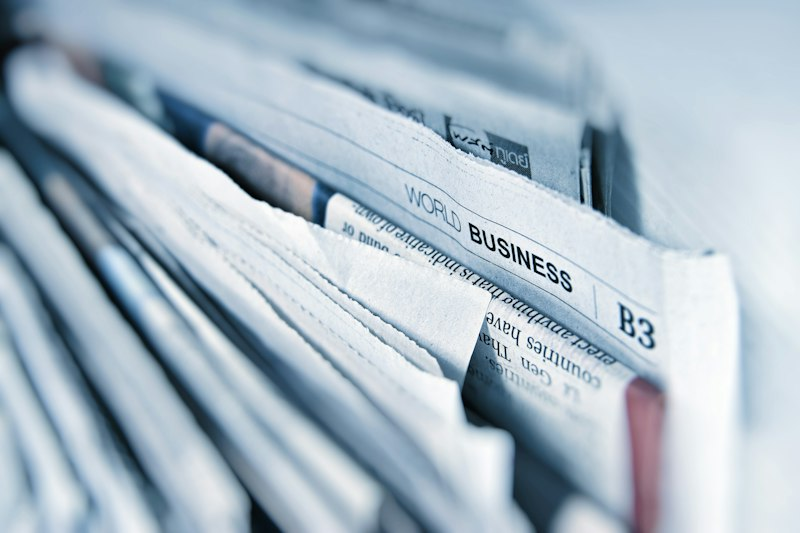
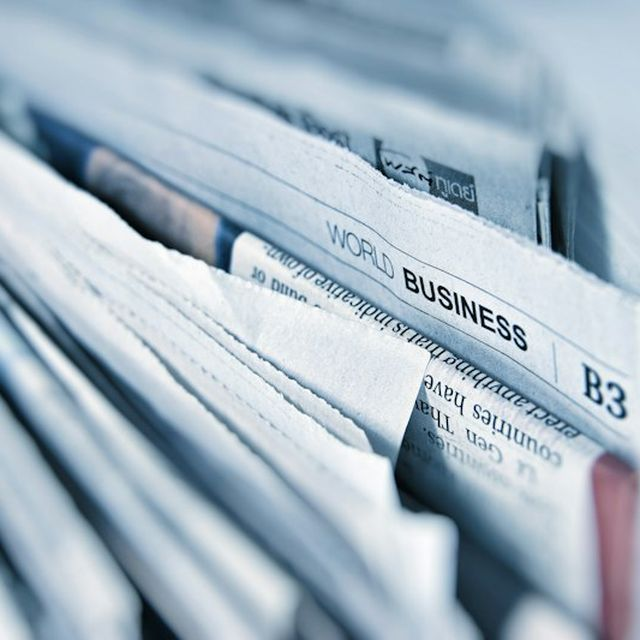
Photo fix

diff --git a/stitch_screens/wrocycle_game.html b/stitch_screens/wrocycle_game.html
@@ -310,6 +310,8 @@
 
 </div>
 
+<p class="text-center text-[10px] text-gray-400 px-4 pb-2">Zdjęcia / Photo credits: Wikimedia Commons (CC0, CC BY, CC BY-SA) — <a href="assets/waste/CREDITS.md" class="underline">details</a></p>
+
 <!-- ===== GAME OVER MODAL ===== -->
 <div id="game-over" class="fixed inset-0 z-[100] bg-black/50 backdrop-blur-md flex items-center justify-center p-4 hidden">
   <div class="bg-white rounded-3xl p-5 sm:p-7 text-center max-w-xs sm:max-w-sm w-full shadow-2xl border border-outline-variant/30">
@@ -398,80 +400,77 @@
       nameEn: "Plastic PET bottle",
       category: "up",
       hint: "Zgnieć i odkręć korek / Crush & uncap",
-      img: "assets/waste/plastic_bottle.jpg",
-      fallbackImg: "https://images.unsplash.com/photo-1591872203534-278fc084969e?q=80&w=800&auto=format&fit=crop"
+      img: "assets/waste/plastic_bottle.jpg"
     },
     {
       namePl: "Puszka po napoju",
       nameEn: "Aluminum soda can",
       category: "up",
       hint: "Opróżnij i zgnieć / Empty & crush",
-      img: "assets/waste/soda_can.jpg",
-      fallbackImg: "https://images.unsplash.com/photo-1581009146145-b5ef050c2e1e?q=80&w=800&auto=format&fit=crop"
+      img: "assets/waste/soda_can.jpg"
     },
     {
       namePl: "Karton po mleku / soku",
       nameEn: "Milk / beverage carton",
       category: "up",
       hint: "Tetrapak: tworzywo + metal + papier",
-      img: "assets/waste/milk_carton.jpg",
-      fallbackImg: "https://images.unsplash.com/photo-1550989460-0adf9ea622e2?q=80&w=800&auto=format&fit=crop"
+      img: "assets/waste/milk_carton.jpg"
     },
     {
       namePl: "Szklana butelka",
       nameEn: "Glass bottle",
       category: "left",
       hint: "Nie tłucz! Zdejmij metalowy kapsel",
-      img: "assets/waste/glass_bottle.jpg",
-      fallbackImg: "https://images.unsplash.com/photo-1603561591411-07134e71a2a9?q=80&w=800&auto=format&fit=crop"
+      img: "assets/waste/glass_bottle.jpg"
     },
     {
       namePl: "Słoik po dżemie",
       nameEn: "Glass food jar",
       category: "left",
       hint: "Opróżnij; wieczko do żółtego kosza",
-      img: "assets/waste/jam_jar.jpg",
-      fallbackImg: "https://images.unsplash.com/photo-1587393855524-087f83d95bc9?q=80&w=800&auto=format&fit=crop"
+      img: "assets/waste/jam_jar.jpg"
     },
     {
       namePl: "Stara gazeta / Czasopismo",
       nameEn: "Newspaper / Magazine",
       category: "down",
       hint: "Suchy i czysty papier / Clean & dry",
-      img: "assets/waste/newspaper.jpg",
-      fallbackImg: "https://images.unsplash.com/photo-1504711434969-e33886168f5c?q=80&w=800&auto=format&fit=crop"
+      img: "assets/waste/newspaper.jpg"
     },
     {
       namePl: "Pudełko tekturowe",
       nameEn: "Cardboard box",
       category: "down",
       hint: "Rozłóż karton na płasko / Flatten box",
-      img: "assets/waste/cardboard_box.jpg",
-      fallbackImg: "https://images.unsplash.com/photo-1589939705384-5185137a7f0f?q=80&w=800&auto=format&fit=crop"
+      img: "assets/waste/cardboard_box.jpg"
     },
     {
       namePl: "Torba papierowa",
       nameEn: "Paper shopping bag",
       category: "down",
       hint: "Czysta, bez tłustych plam / Not greasy",
-      img: "assets/waste/paper_bag.jpg",
-      fallbackImg: "https://images.unsplash.com/photo-1544816155-12df9643f363?q=80&w=800&auto=format&fit=crop"
+      img: "assets/waste/paper_bag.jpg"
     },
     {
-      namePl: "Zabrudzona serwetka",
-      nameEn: "Greasy napkin / tissue",
+      namePl: "Tłusty karton po pizzy",
+      nameEn: "Greasy pizza box",
+      category: "right",
+      hint: "Tłusty karton NIE do niebieskiego! / Grease = black bin",
+      img: "assets/waste/pizza_box.jpg"
+    },
+    {
+      namePl: "Zużyta chusteczka / serwetka",
+      nameEn: "Used napkin / tissue",
       category: "right",
       hint: "Tłusty papier NIE nadaje się do recyklingu!",
-      img: "assets/waste/dirty_napkin.jpg",
-      fallbackImg: "https://images.unsplash.com/photo-1584556812952-905ffd0c611a?q=80&w=800&auto=format&fit=crop"
+      img: "assets/waste/dirty_napkin.jpg"
     },
     {
       namePl: "Potłuczony kubek ceramiczny",
       nameEn: "Broken ceramic mug",
       category: "right",
       hint: "Ceramika/porcelana to NIE szkło!",
-      img: "assets/waste/broken_mug.jpg",
-      fallbackImg: "https://images.unsplash.com/photo-1514432324607-a09d9b4aefdd?q=80&w=800&auto=format&fit=crop"
+      img: "assets/waste/broken_mug.svg"
     }
   ];
 

diff --git a/stitch_screens/assets/waste/CREDITS.md b/stitch_screens/assets/waste/CREDITS.md
@@ -1,0 +1,16 @@
+# Photo credits (Wikimedia Commons)
+
+| File | Source file on Commons | Author | License |
+|---|---|---|---|
+| plastic_bottle.jpg | Empty Plastic Bottle.jpg | Echendu Tracy | CC0 |
+| soda_can.jpg | 12-ounce Aluminum Soda Can (32167233397).jpg | Tony Webster | CC BY 2.0 |
+| milk_carton.jpg | A carton of mik and cup on a table at home.jpg | Olgatladi2020 | CC BY-SA 4.0 |
+| glass_bottle.jpg | Empty green bottles of Gordon’s gin.jpg | phault | CC BY 2.0 |
+| jam_jar.jpg | Empty Clear Jar (51330638811).jpg | Alabama Extension | CC0 |
+| cardboard_box.jpg | Cardboard box.jpg | MrBeastRapper | CC BY-SA 4.0 |
+| dirty_napkin.jpg | Crumpled tissue paper.jpg | Uraniumneptuniumplutonium929394 | CC0 |
+| pizza_box.jpg | Russian Pizza Box.jpg | Spacekid | CC0 |
+| broken_mug.svg | original illustration | WroCycle | project |
+| newspaper.jpg, paper_bag.jpg | pre-existing photos (source not recorded) | — | verify |
+
+Images were center-cropped to 640x640 and recompressed. Look up each file on commons.wikimedia.org for full details.
